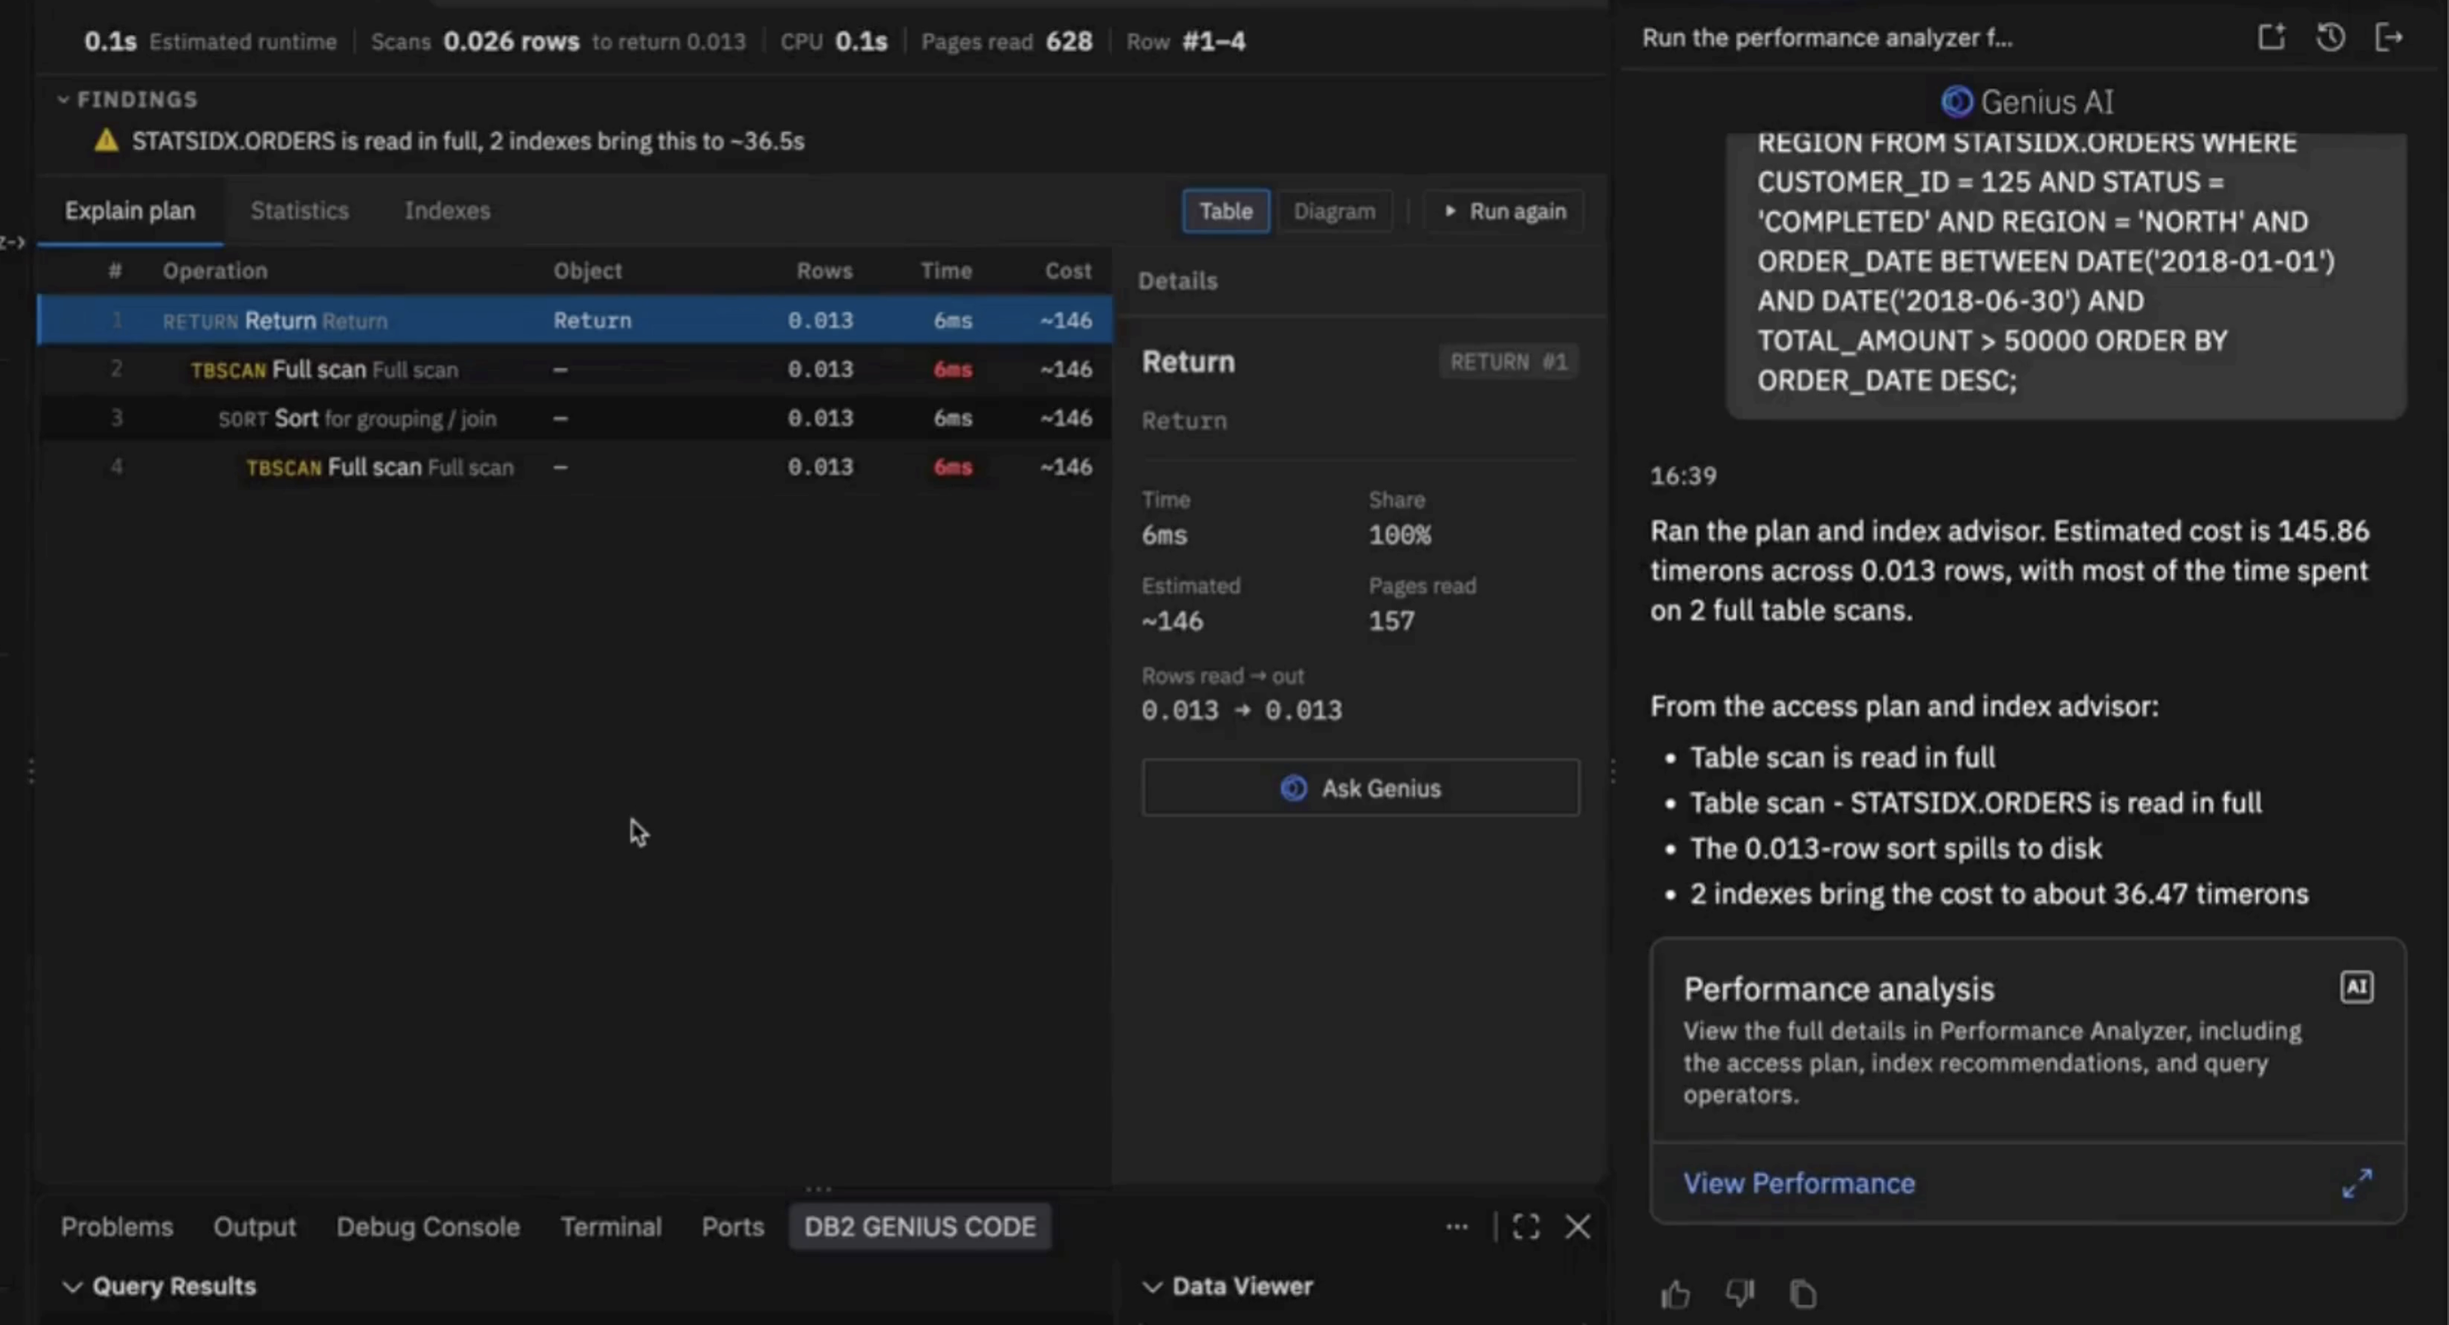
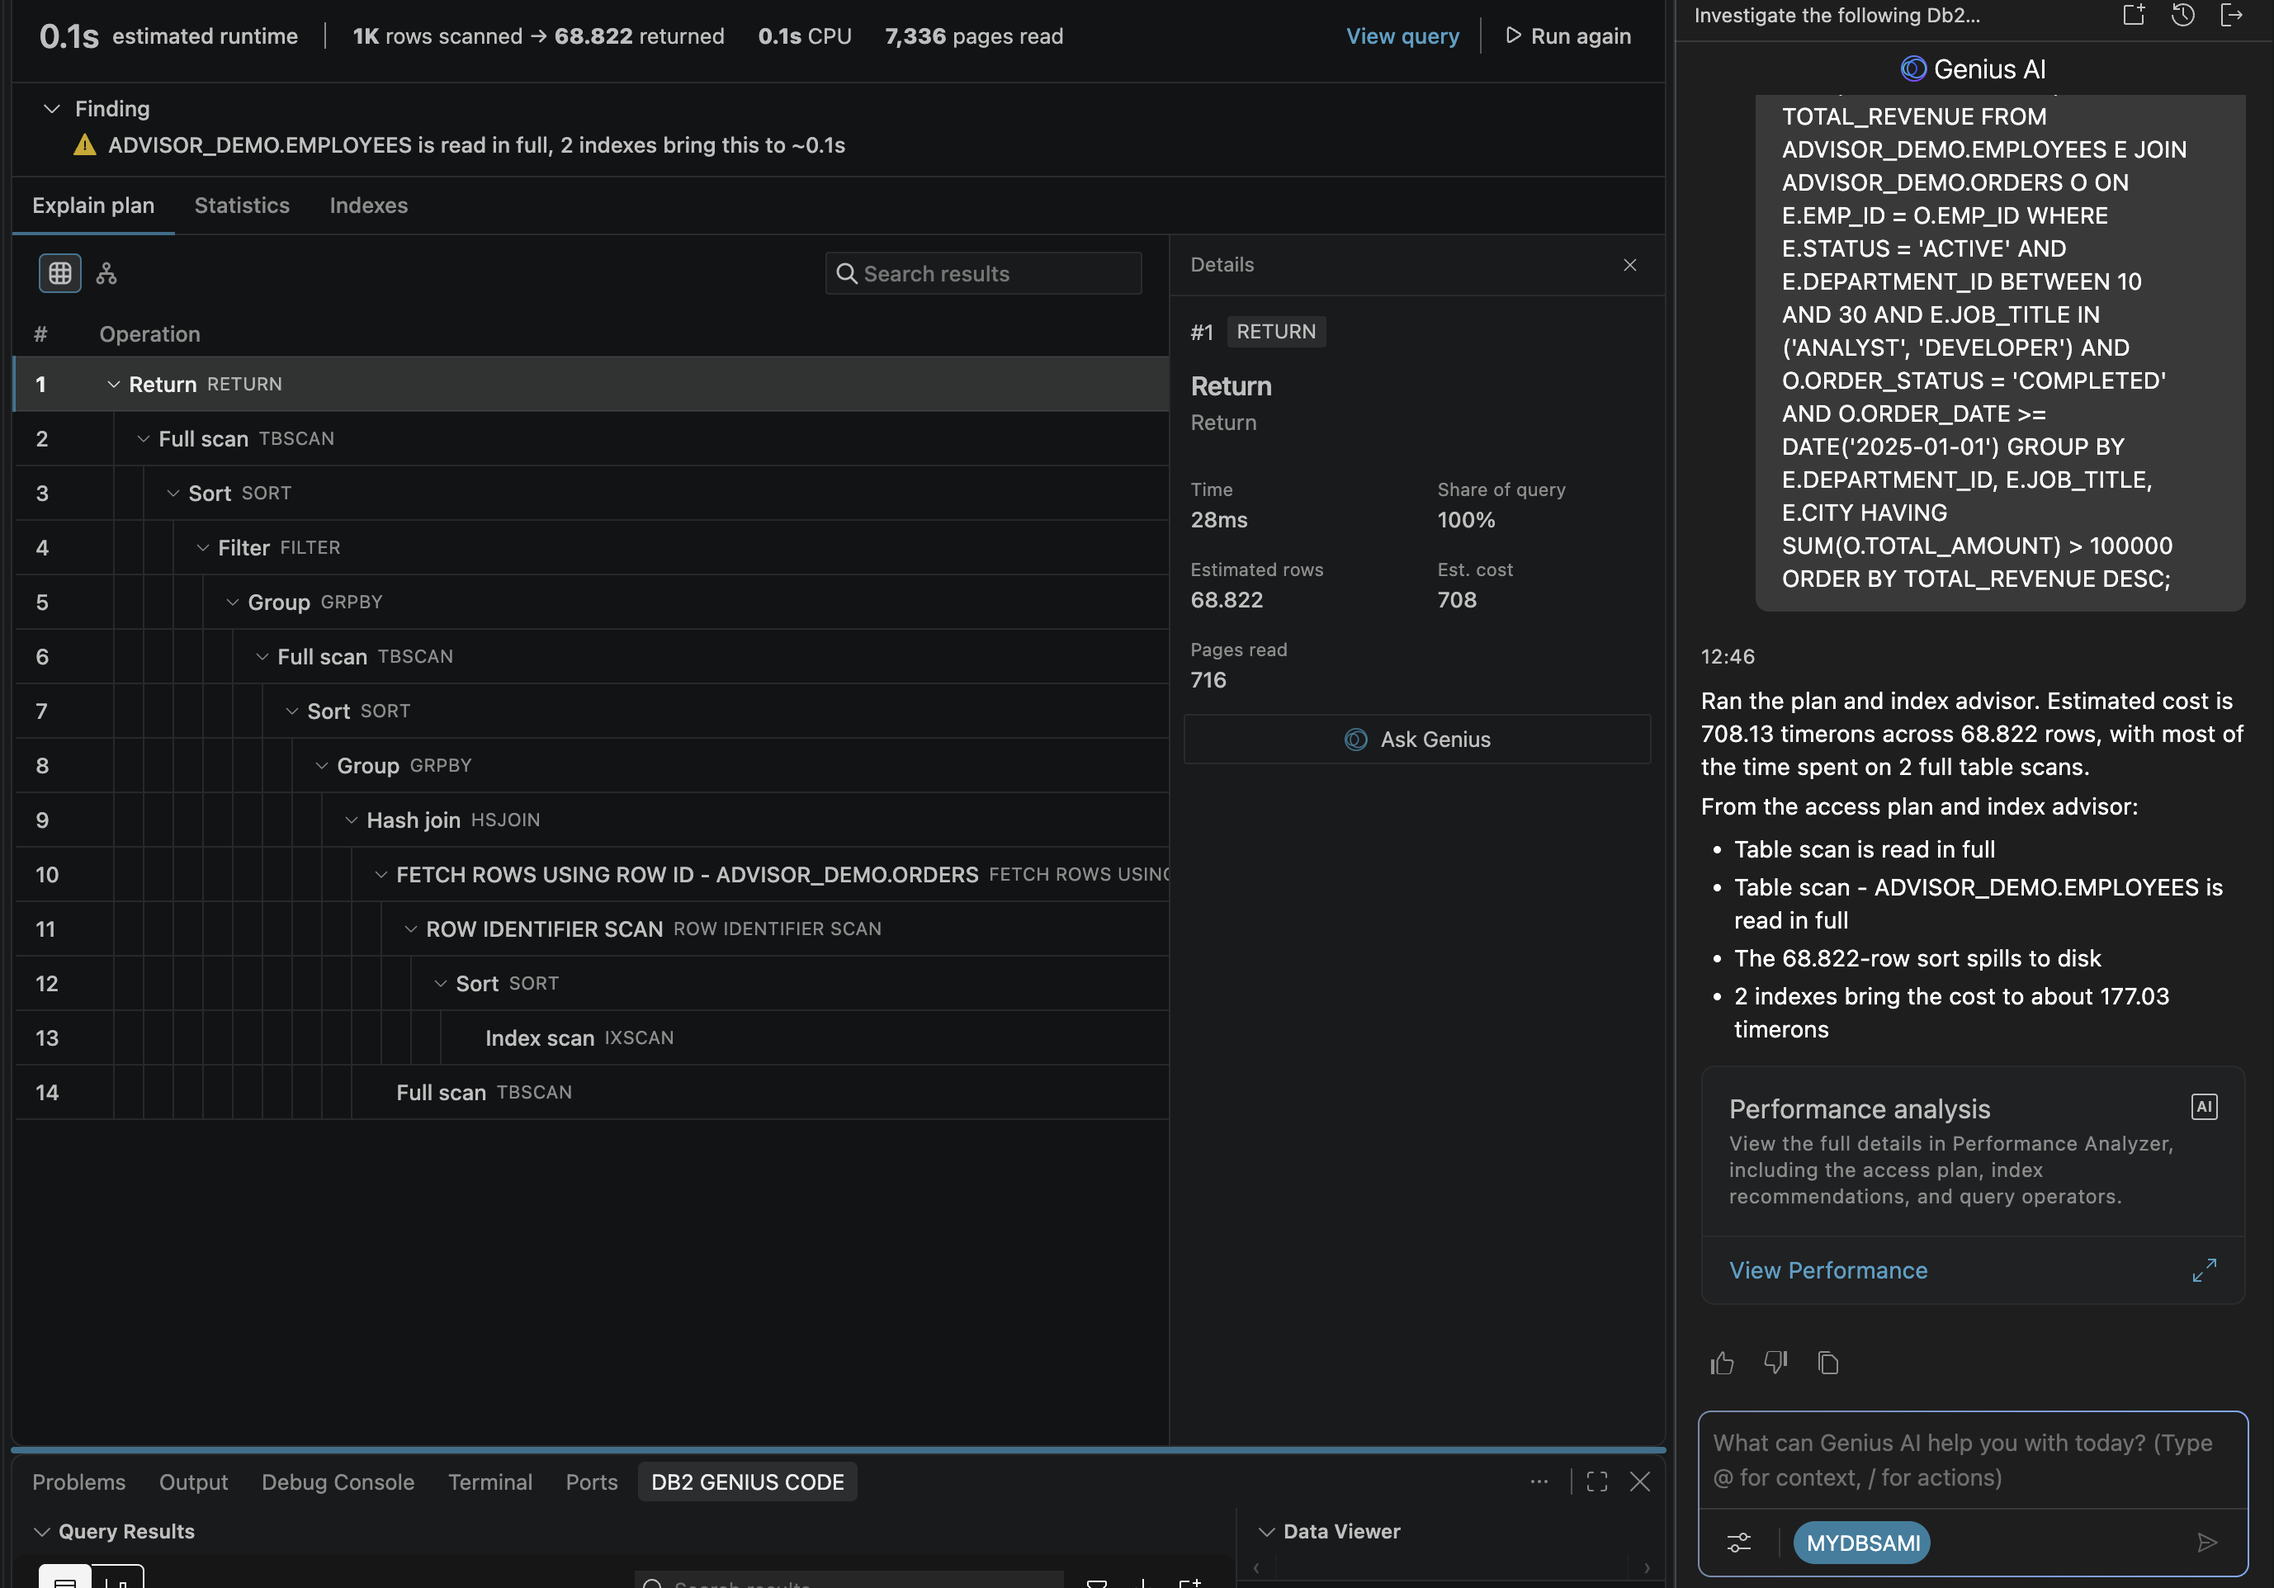
updated the topics

diff --git a/docs/working-with-sql/analyzing-query-performance.md b/docs/working-with-sql/analyzing-query-performance.md
@@ -34,34 +34,49 @@ Click **View Performance** in the Genius AI response to open the performance ana
 
 At the top of the performance analyzer, a summary bar shows the key metrics for the query: estimated runtime, the number of rows scanned compared with the number of rows returned, CPU time, and pages read.
 
-The **Findings** section highlights the most important issues that were detected. For example, a finding can tell you that a table is read in full and how much the estimated cost drops if the recommended indexes are created.
+The **Finding** section highlights the most important issue that was detected. For example, a finding can tell you that a table is read in full and how much the estimated runtime drops if the recommended indexes are created. In the summary bar, click **View query** to see the SQL statement that is analyzed, or click **Run again** to analyze the query again.
 
 The performance analyzer provides the following tabs:
 
 - **Explain plan**: Shows the execution plan for the query as a table or as a diagram.
-- **Statistics**: Shows a `RUNSTATS` command for each table that the query uses. You can apply the command to update the table statistics that the optimizer uses.
+- **Statistics**: Shows `RUNSTATS` recommendations for the tables that the query uses. You can apply the recommendations to update the table statistics that the optimizer uses.
 - **Indexes**: Shows the index recommendations that might improve the query performance.
 
 ### Explain plan
 
-The explain plan generates the execution plan for the query. Use the **Table** and **Diagram** buttons to switch between two views of the same plan.
+The explain plan generates the execution plan for the query. Use the table icon and the diagram icon above the plan to switch between two views of the same plan. To find a specific operation, enter text in the **Search results** field.
 
-- **Table view**: Lists each operation in the plan in a row. The columns show the step number (**#**), the **Operation** (for example, a full table scan, a sort, or a return), the **Object** that the operation works on, the number of **Rows**, the **Time**, and the estimated **Cost**. Operations that take a large share of the time, such as full table scans, are highlighted so that you can find them quickly.
+- **Table view**: Lists each operation in the plan in a row. The columns show the step number (**#**) and the **Operation**. Each operation shows its name (for example, **Full scan**, **Sort**, or **Hash join**) and its operator type (for example, `TBSCAN`, `SORT`, or `HSJOIN`). The operations are indented to show how they are nested in the plan. Use the arrows next to an operation to expand or collapse it.
 - **Diagram view**: Shows the plan as a flow of connected operators, with the cost in timerons on each node. A warning icon marks operators that might cause performance problems, such as a full table scan. Use the zoom in, zoom out, and fit-to-screen controls to navigate larger plans.
 
-Click an operation in the table or a node in the diagram to see its details in the **Details** panel:
+Click an operation in the table or a node in the diagram to see its details in the **Details** panel. Click the close icon (**×**) to close the panel. The panel shows the operation number and type, the operation name, and the following information:
 
-- **Time** and **Share**: How long the operation takes and what percentage of the total time it accounts for.
-- **Estimated**: The estimated cost of the operation.
+- **Time** and **Share of query**: How long the operation takes and what percentage of the total time it accounts for.
+- **Estimated rows**: The estimated number of rows that the operation returns.
+- **Est. cost**: The estimated cost of the operation.
 - **Pages read**: The number of pages that the operation reads.
-- **Rows read → out**: The number of rows that the operation reads and the number of rows that it passes on.
 
 ### Improving statistics and indexes
 
-1. Click the **Statistics** tab. For each table that is used by the query, review the generated `RUNSTATS` command, and then click **Apply RUNSTATS** to update the table statistics. Current statistics help the optimizer choose efficient access plans.
-2. Click the **Indexes** tab. The tab shows the estimated cost of the query if the recommended indexes are applied (for example, from 145.857 to 6.872 timerons). For each recommendation, review the table, the percentage improvement, the columns in the index, and the `CREATE INDEX` statement.
-3. Click **Open in editor** to open the `CREATE INDEX` statement in the **Db2 SQL Editor**, and then run it.
-4. Click **Run again** to analyze the query again and see how the change affects the plan and the cost.
+1. Click the **Statistics** tab. The **RUNSTATS recommendations** list shows the tables that the query uses, with the **TABLE SCHEMA**, **TABLE NAME**, and **CARDINALITY** of each table.
+
+   ![RUNSTATS recommendations on the Statistics tab]({{site.baseurl}}/assets/images/stats.png)
+
+   1. Select the tables that you want to update. To select all tables, select the check box in the header row.
+   2. Click **Apply RUNSTATS** to update the statistics for the selected tables. Current statistics help the optimizer choose efficient access plans.
+
+   To review or edit the `RUNSTATS` command before you apply it, click **Open SQL script**, or click the script icon at the end of a table row to open the script for that table only.
+
+2. Click the **Indexes** tab. The **Index recommendations** list shows the estimated cost of the query if the recommended indexes are applied (for example, from 708 to 563.096 timerons). For each recommendation, review the **Index name**, **Schema**, **Table**, **Key columns**, **Contribution**, and **Disk usage**.
+
+   ![Index recommendations on the Indexes tab]({{site.baseurl}}/assets/images/index.png)
+
+   1. Select the indexes that you want to create. To select all indexes, select the check box in the header row.
+   2. Click **Apply indexes** to create the selected indexes.
+
+   To review the `CREATE INDEX` statement before you create the index, click **Open SQL script**, or click the script icon at the end of an index row to open the script for that index only. The script opens in the **Db2 SQL Editor**, where you can run it.
+
+3. Click **Run again** to analyze the query again and see how the change affects the plan and the cost.
 
 ### Asking Genius AI about the plan
 
